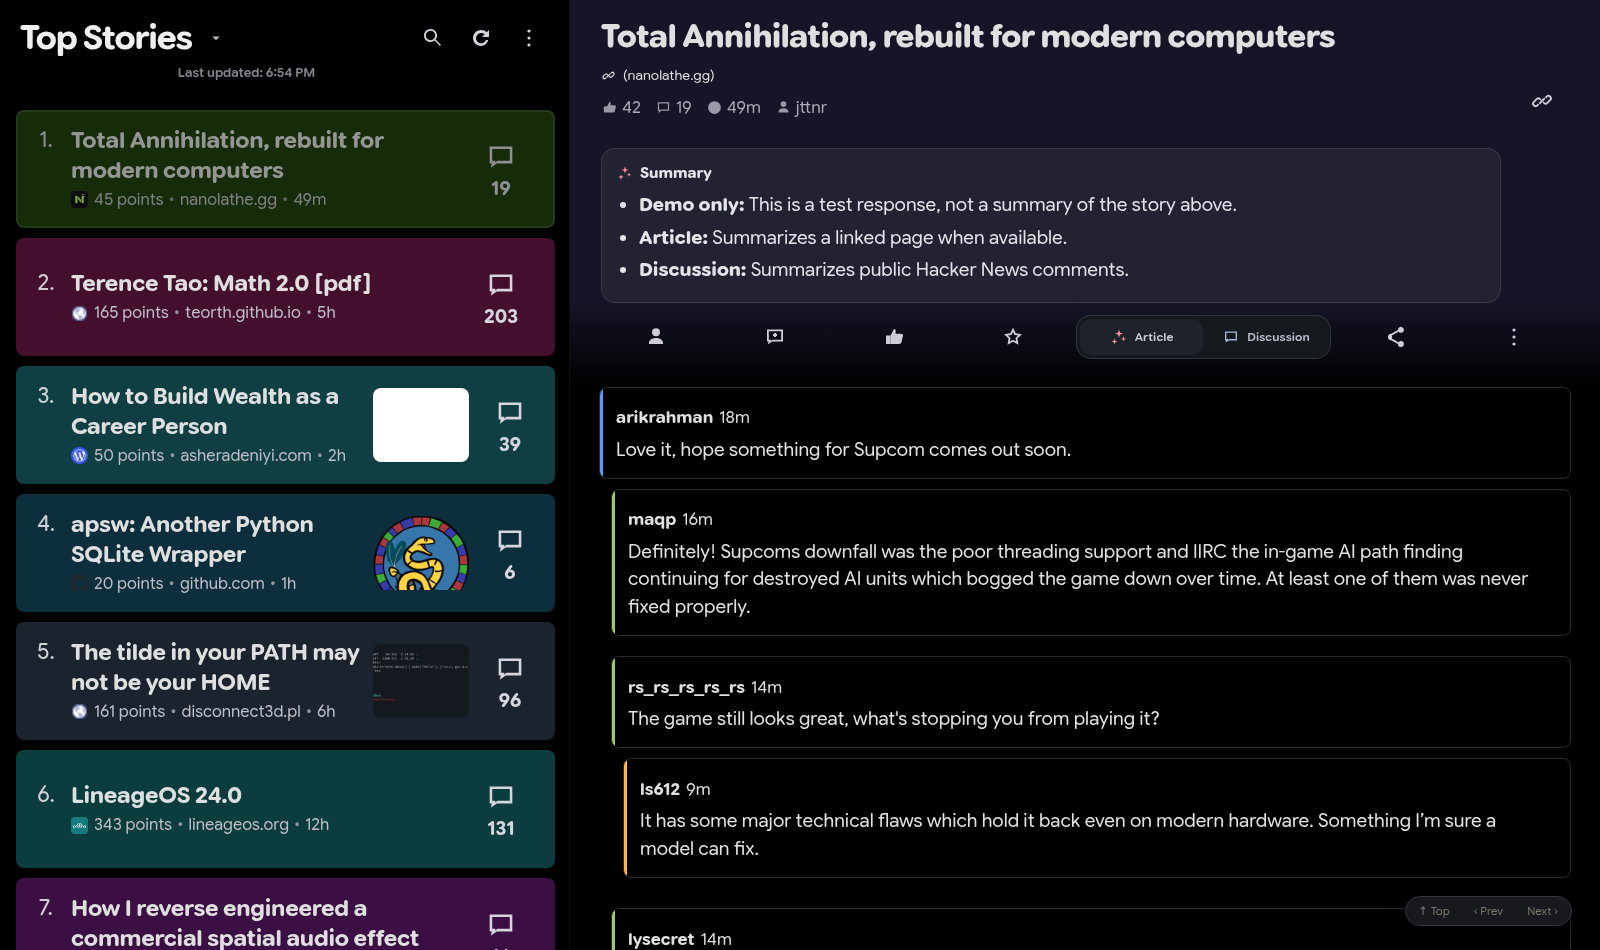
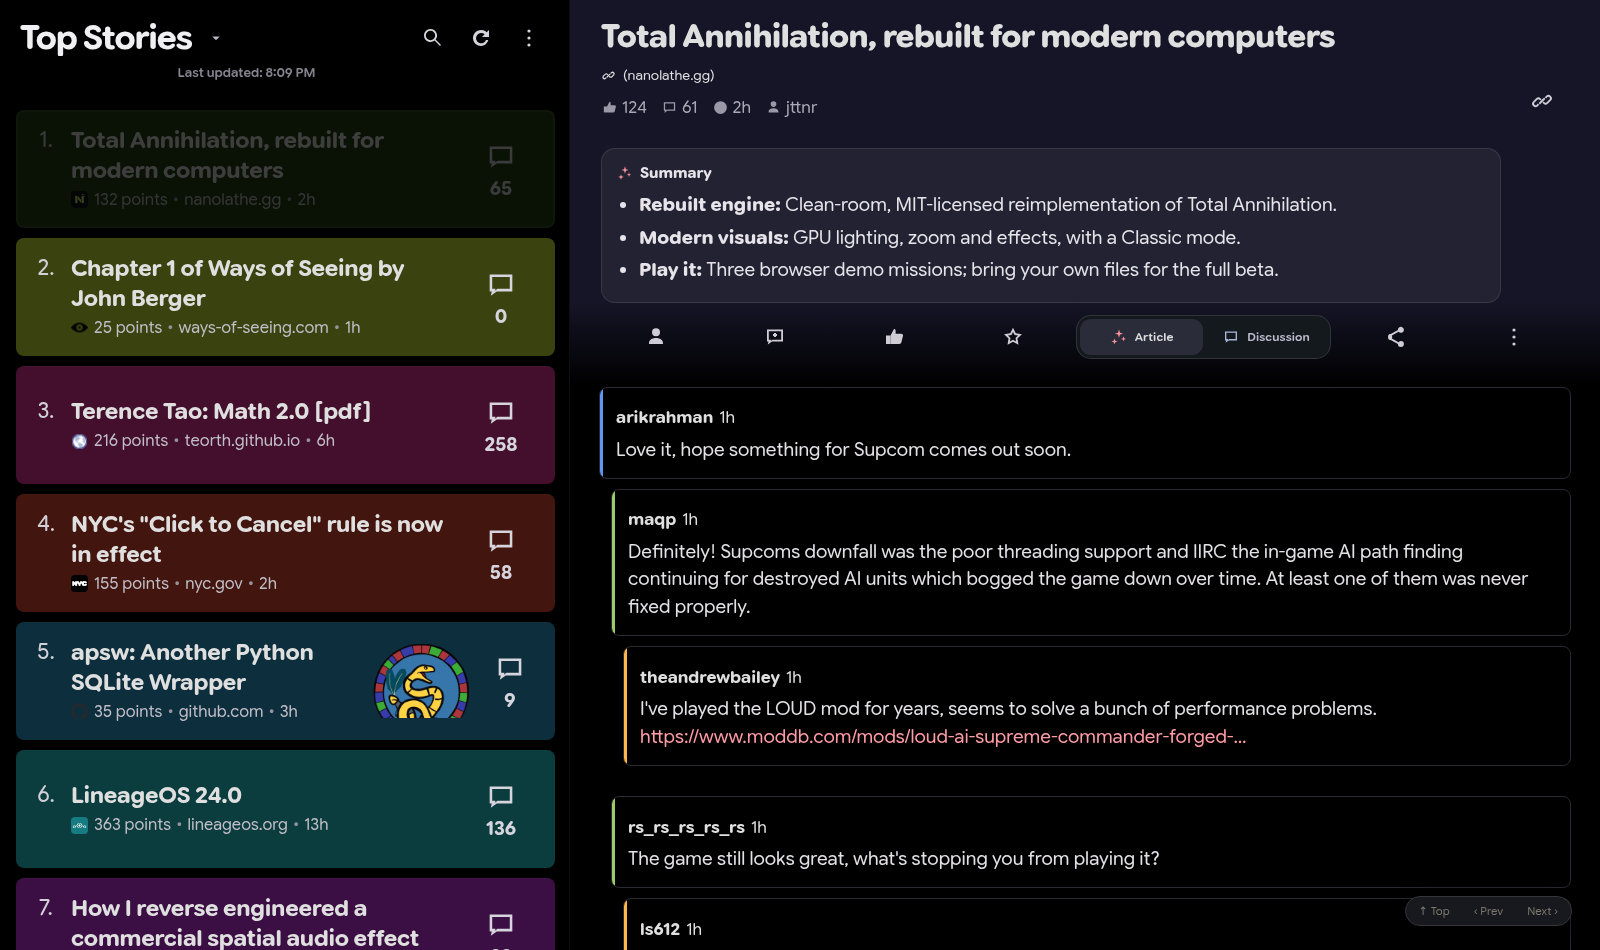
docs: show genuine article summary in AI demo screenshot

diff --git a/docs/DEVELOPMENT.md b/docs/DEVELOPMENT.md
@@ -42,7 +42,7 @@ harmonova/
 
 Generated material such as `dist/`, `node_modules/`, and `test-results/` is ignored by Git. Captured raw HN fixture data, traces, and any credentials must remain untracked. Documentation screenshots in `docs/assets/` are an intentional exception.
 
-To refresh the screenshots in the README and feature guide, run `node scripts/capture-doc-screenshots.mjs`. This runs the actual extension in Chromium and captures its UI. The AI summary screenshot uses a deterministic **mock response**, not a real OpenRouter key or a summary of a real article. Never pass secrets to the screenshot tool. The main reader screenshot in `docs/assets/overview.png` is captured from the same live session.
+To refresh the screenshots in the README and feature guide, run `node scripts/capture-doc-screenshots.mjs`. This runs the actual extension in Chromium and captures its UI. The AI summary screenshot shows a deterministic **prepared summary of the linked Nanolathe article**, rather than calling OpenRouter with a real API key. The article and response are stubbed locally for repeatability. Never pass secrets to the screenshot tool. The main reader screenshot in `docs/assets/overview.png` is captured from the same live session.
 
 ## Test commands
 

diff --git a/README.md b/README.md
@@ -85,9 +85,9 @@ Sometimes I want the main points of an article before reading it. Other times th
 
 Both use [OpenRouter](https://openrouter.ai/) and are optional. Add your own API key in **Settings → AI** and select a model. Nothing is summarized unless you request it (unless you choose to enable automatic summaries in Settings). The text being summarized is sent to OpenRouter; not every article site allows automatic reading.
 
-![AI summary card in the discussion reader with demonstration-only output](docs/assets/ai-summary-demo.png)
+![AI summary of the Nanolathe Total Annihilation article in the discussion reader](docs/assets/ai-summary-demo.png)
 
-*AI interface demonstration. The example summary text is mocked, not a summary of the article shown.*
+*Example summary of the [Nanolathe article](https://nanolathe.gg/). The screenshot uses a prepared response for demonstration, not a live API request.*
 
 ## A couple of things to know
 
